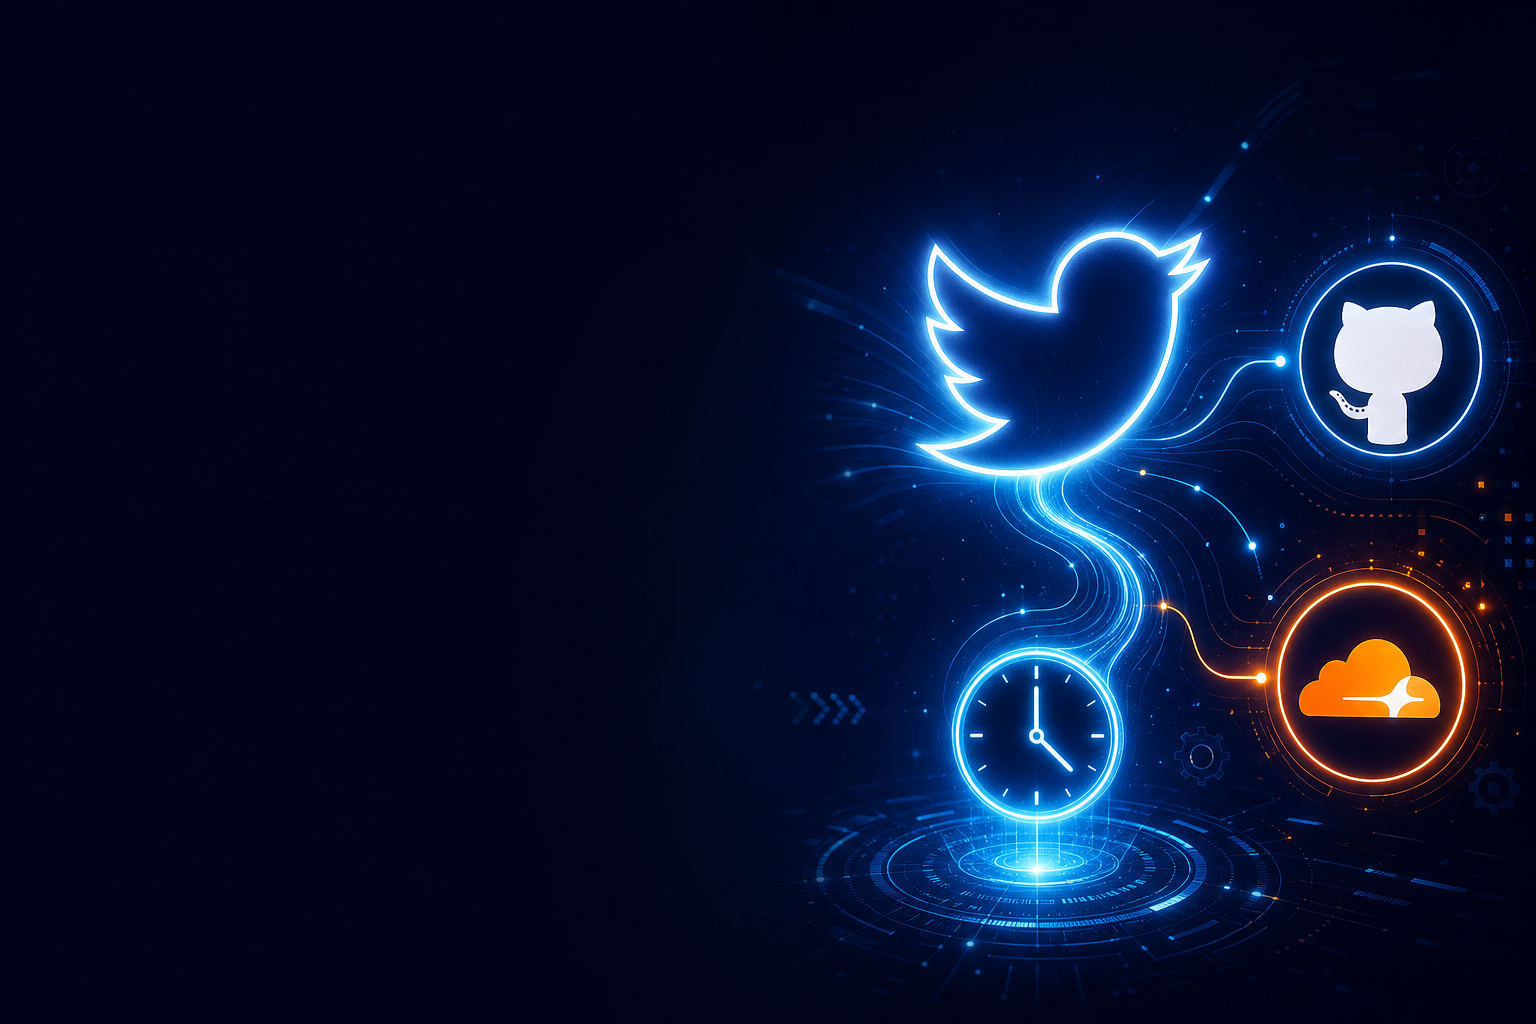
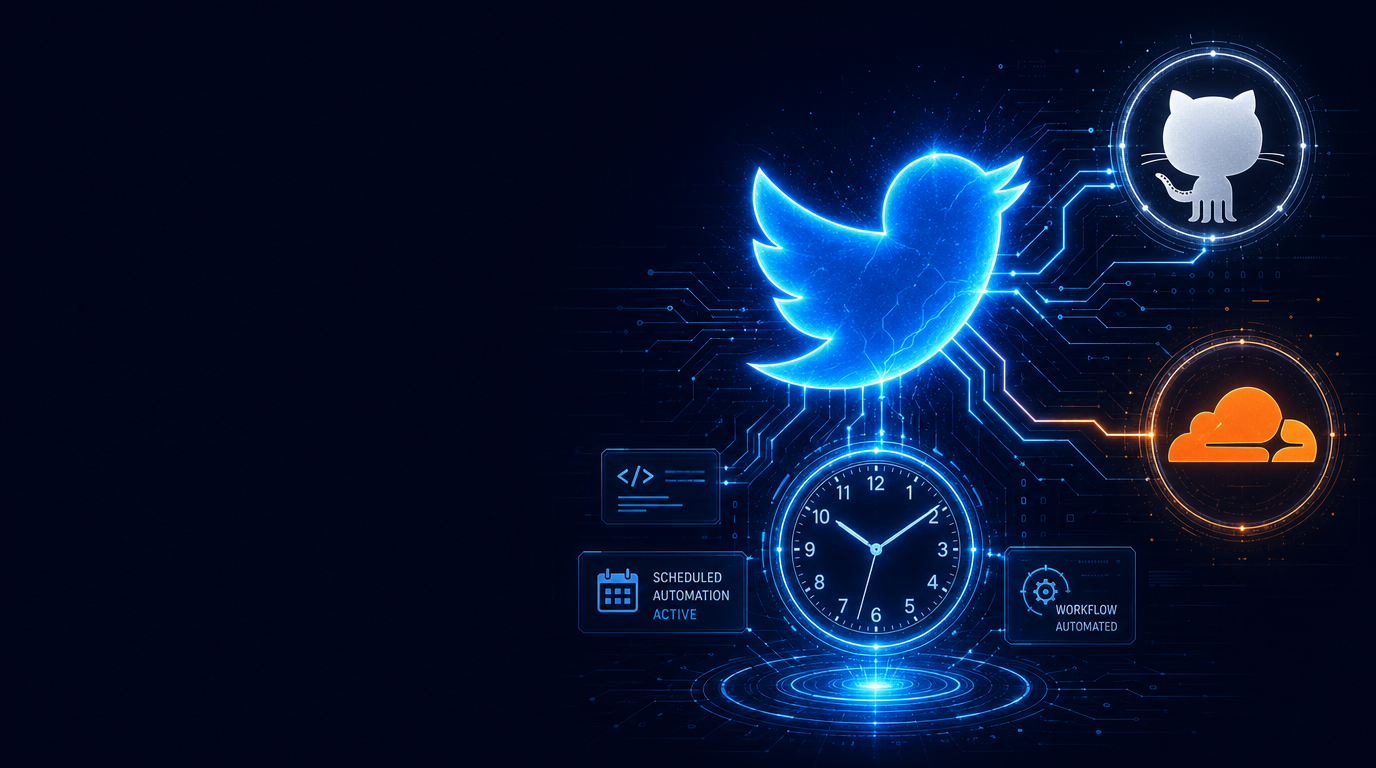
fix: regenerate x-autopost thumbnail using gpt-image-2 API at native 1376x768
- Generated base image directly at 1376x768 via gpt-image-2 API (custom size)
- No scaling needed: eliminates Chrome headless bottom-clipping issue
- Updated HTML: img uses fixed 1376x768px, body=800px for Chrome headroom
- Crop step: top 768px from 800px screenshot ensures full illustration visible
- Bottom rows verified as dark navy image content (no white gap)

Changed region(s): [[0.4062, 0.0312, 1.0, 1.0], [0.875, 0.8438, 0.9375, 0.875]]

diff --git a/tmp-diagram/thumb-x-autopost.html b/tmp-diagram/thumb-x-autopost.html
@@ -6,26 +6,31 @@
   * { box-sizing: border-box; margin: 0; padding: 0; }
   body {
     width: 1376px;
-    height: 768px;
+    height: 800px;
     overflow: hidden;
     font-family: "Hiragino Kaku Gothic Pro", "Noto Sans JP", "Yu Gothic", sans-serif;
     position: relative;
     background: #050c23;
   }
 
-  /* 背景画像（imgタグで確実に高さ合わせ・右寄せ） */
+  /* 背景画像：gpt-image-2 API で 1376x768 ちょうどに生成したためスケーリング不要 */
+  /* Chrome headlessが底辺を約20px切るため、body=800pxで撮影後に上768pxをクロップする */
+  /* 画像は0-767px、768-799pxはbody背景色（#050c23）で埋まるがクロップされる */
   .bg-img {
     position: absolute;
-    right: 0;
+    left: 0;
     top: 0;
+    width: 1376px;
     height: 768px;
-    width: auto;
   }
 
-  /* 左側グラデーションオーバーレイ */
+  /* 左側グラデーションオーバーレイ（テキストエリアを読みやすくする） */
   .overlay {
     position: absolute;
-    inset: 0;
+    top: 0;
+    left: 0;
+    width: 1376px;
+    height: 768px;
     background: linear-gradient(
       to right,
       rgba(5, 12, 35, 0.85) 0%,
